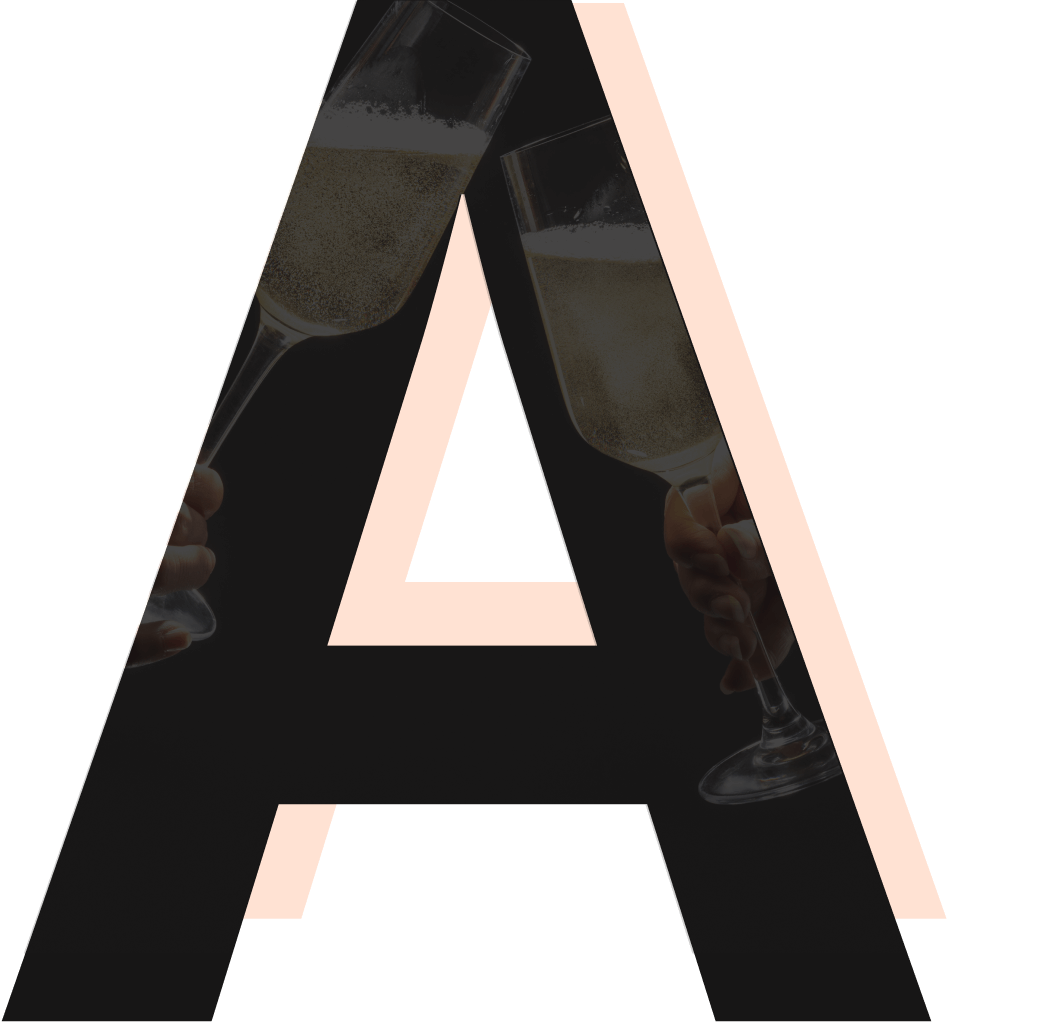
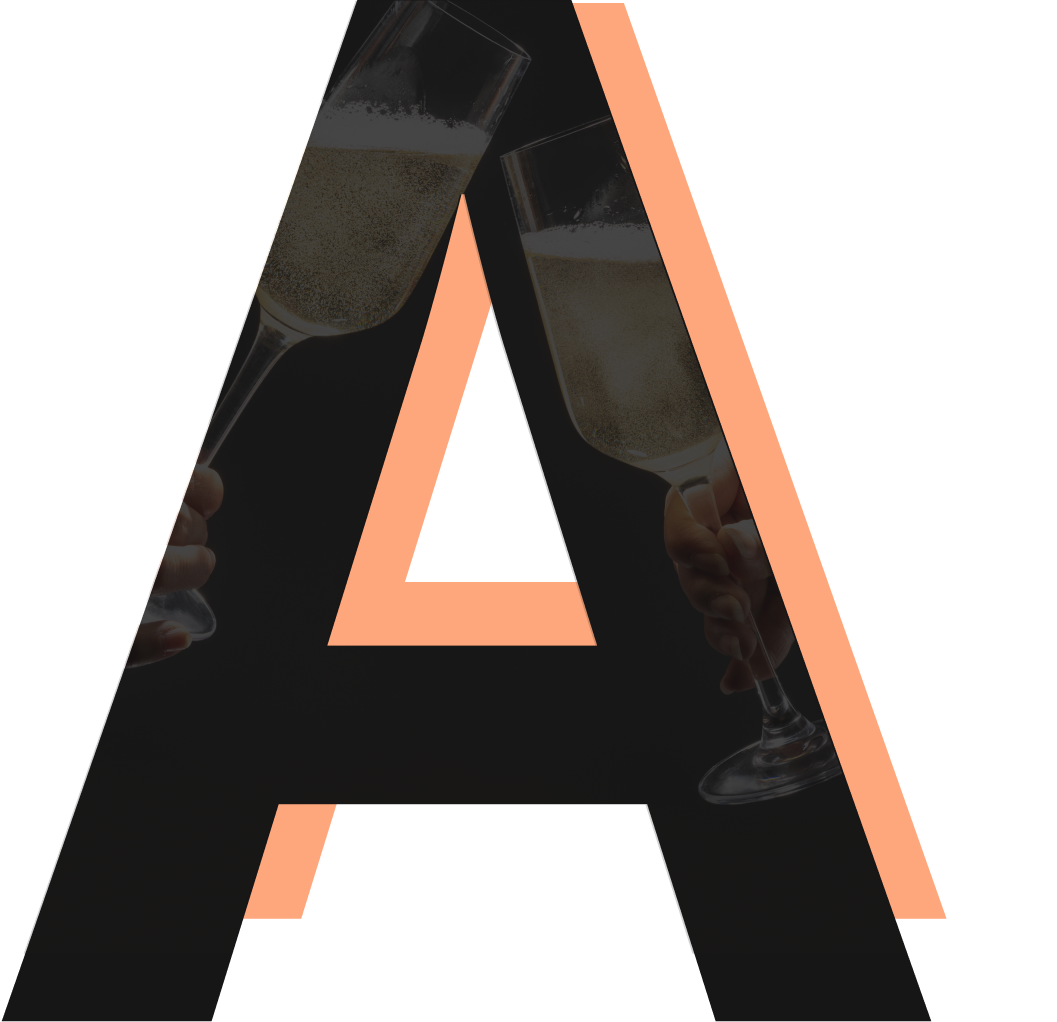
0930-Ian

Changed region(s): [[0.5307, 0.0, 0.9054, 0.91], [0.3122, 0.182, 0.562, 0.637], [0.2185, 0.7886, 0.3122, 0.91]]

diff --git a/src/scss/Home.scss b/src/scss/Home.scss
@@ -172,10 +172,10 @@
                         position: absolute;
                         left: 100%;
                         top: 0;
-                        transform: translate(clamp(-190px, calc(-15.28vw + 13.19px), -135px), 15px);
+                        transform: translate(clamp(-230px, calc(-15.28vw + 13.19px), -180px), 15px);
                         white-space: nowrap;
                         font-size: clamp(20px, 2.4vw, 32px);
-                        letter-spacing: .5em;
+                        letter-spacing: 1em;
                         font-weight: 600;
                         margin: 0;
                         opacity: .95;
@@ -305,11 +305,11 @@
                 margin: 0 auto;
                 font-size: clamp(20px, 2.4vw, 32px);
                 line-height: 1.6;
-                letter-spacing: .02em;
                 opacity: .95;
                 font-family: $family-tc;
                 font-weight: bold;
                 text-align: center;
+                letter-spacing: 10px;
 
                 // 平板版
                 @media ($mediaMd) {
@@ -388,6 +388,10 @@
                 padding: 50px 50px 0 0;
                 // margin-left: clamp(20px, calc(31.03vw - 395.86px), 200px);
                 // margin-bottom: clamp(-20px, -11.21vw + 195.17px, 45px);
+
+                h2 {
+                    font-weight: bold;
+                }
 
                 @media (max-width:1340px) {
                     margin: 0;
@@ -1565,10 +1569,11 @@
         .Illustrations-body {
             padding: 0;
             z-index: 1;
+
             @media (max-width:1320px) {
                 display: flex;
                 justify-content: center;
-                }
+            }
 
             .Illustrations-introduce {
                 margin: 50px 90px 0 90px;

diff --git a/src/scss/About.scss b/src/scss/About.scss
@@ -84,7 +84,7 @@
                     font-size: 60px;
                     font-weight: bold;
                     font-family: $family-en;
-                    
+
                 }
             }
 
@@ -122,10 +122,12 @@
                     padding-left: 5vw;
                     padding-top: 3vh;
                     padding-bottom: 3vh;
+                    letter-spacing: 2px;
+
 
                     @media ($mediaSm) {
                         font-size: 24px;
-                        
+
                     }
                 }
             }
@@ -182,7 +184,7 @@
                 content: "";
                 position: absolute;
                 background-color: $sec-peggy;
-                opacity: 0.2;
+                opacity: 0.5;
                 left: 5vw;
                 top: -5vh;
                 width: 100%;
@@ -207,6 +209,7 @@
 
             h2 {
                 font-weight: bold;
+                letter-spacing: 10px;
             }
         }
     }
@@ -239,12 +242,17 @@
             text-align: center;
             font-size: 32px;
             font-family: $family-tc;
-            font-weight: bold;
             padding-bottom: 3vh;
             border-bottom: 2px solid $pri-dark;
             display: flex;
             justify-content: center;
             flex: 1;
+
+            h2 {
+                font-weight: bold;
+                letter-spacing: 2px;
+            }
+
         }
 
         .Ian_storyDecorateBox2 {
@@ -274,7 +282,7 @@
             content: "";
             position: absolute;
             background-color: $sec-peggy;
-            opacity: 0.2;
+            opacity: 0.5;
             left: 5vw;
             top: 15vh;
             width: calc(100% - 5vw);

diff --git a/src/pages/Illustrations.jsx b/src/pages/Illustrations.jsx
@@ -142,7 +142,7 @@ export default function Illustrations() {
                     <section aria-live="polite" className="w_container w_search_results">
                         <div className="w_cards">
                             {combinedF.map((c, i) => (
-                                <W_Card key={`${c.en}-${c.zh}`} zh={c.zh} en={c.en} img={c.img} highlight={keyword.trim()} align={Math.floor(i / 3) % 2 === 0 ? "left" : "right"} />
+                                <W_Card key={`${c.en}-${c.zh}`} zh={c.zh} en={c.en} img={c.img} highlight={keyword.trim()} align={Math.floor(i / 3) % 2 === 0 ? "left" : "right"} onClick={handleCardClick} />
                             ))}
                         </div>
                     </section>

diff --git a/src/scss/Navbar.scss b/src/scss/Navbar.scss
@@ -13,10 +13,15 @@
     padding: 10px 30px;
     background-color: $pri-dark;
     color: $pri-white;
+    letter-spacing: 2px;
+    font-family: $family-tc;
+
 
 
 
     .logo {
+        font-weight: bold;
+        letter-spacing: 5px;
         font-size: 24px;
 
         a {
@@ -27,7 +32,7 @@
     }
 
     a:hover {
-        color: #535bf2;
+        color: $sec-peggy;
     }
 
     .navbar {
@@ -124,7 +129,7 @@
 
 
                     @media(max-width:970px) {
-                        margin:5px 0;
+                        margin: 5px 0;
                     }
 
                     &:hover {

diff --git a/index.html b/index.html
@@ -2,7 +2,7 @@
 <html lang="zh-hant-tw">
   <head>
     <meta charset="UTF-8" />
-    <link rel="icon" type="image/svg+xml" href="/vite.svg" />
+    <link rel="icon" type="any" href="favicon.ico" />
     <meta name="viewport" content="width=device-width, initial-scale=1.0" />
     <title>酒桶理論</title>
   </head>

diff --git a/src/scss/IllustrationsInnerPages.scss b/src/scss/IllustrationsInnerPages.scss
@@ -176,7 +176,9 @@
 
 
             span {
-                font-size: 14px;
+                font-size: 18px;
+                font-weight: bold;
+                letter-spacing: 2px;
                 font-family: $family-tc;
             }
 
